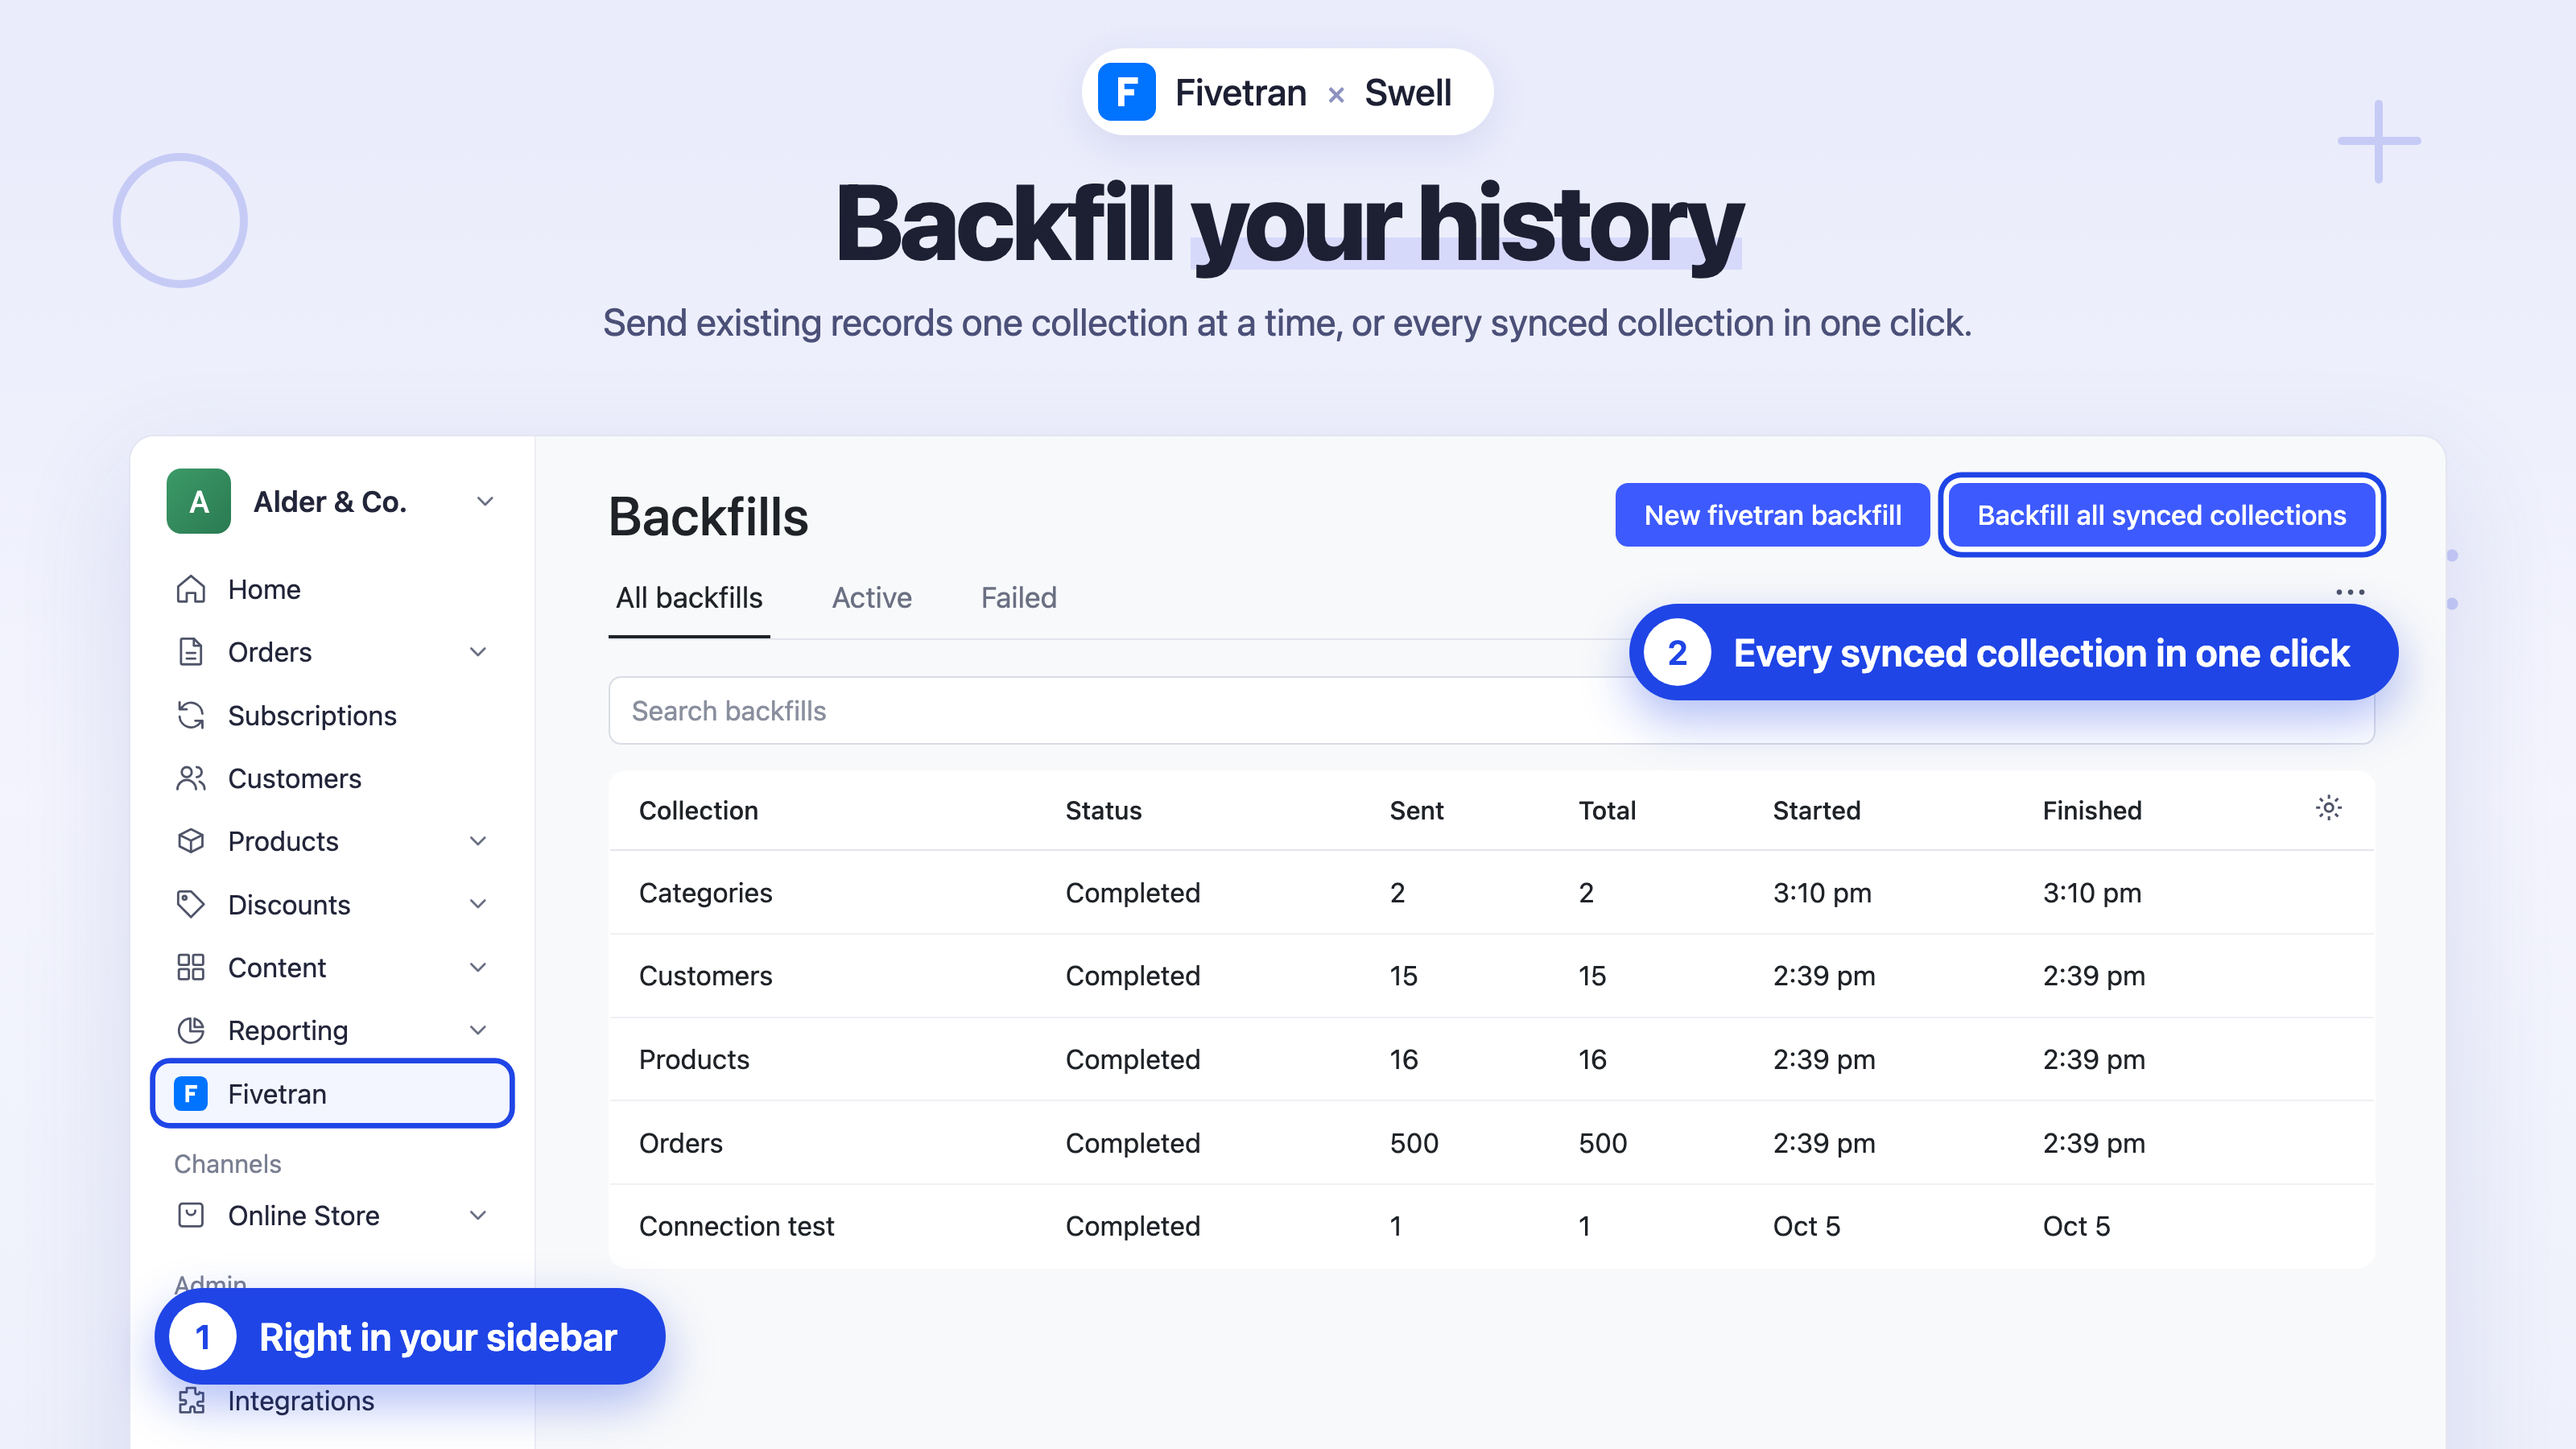
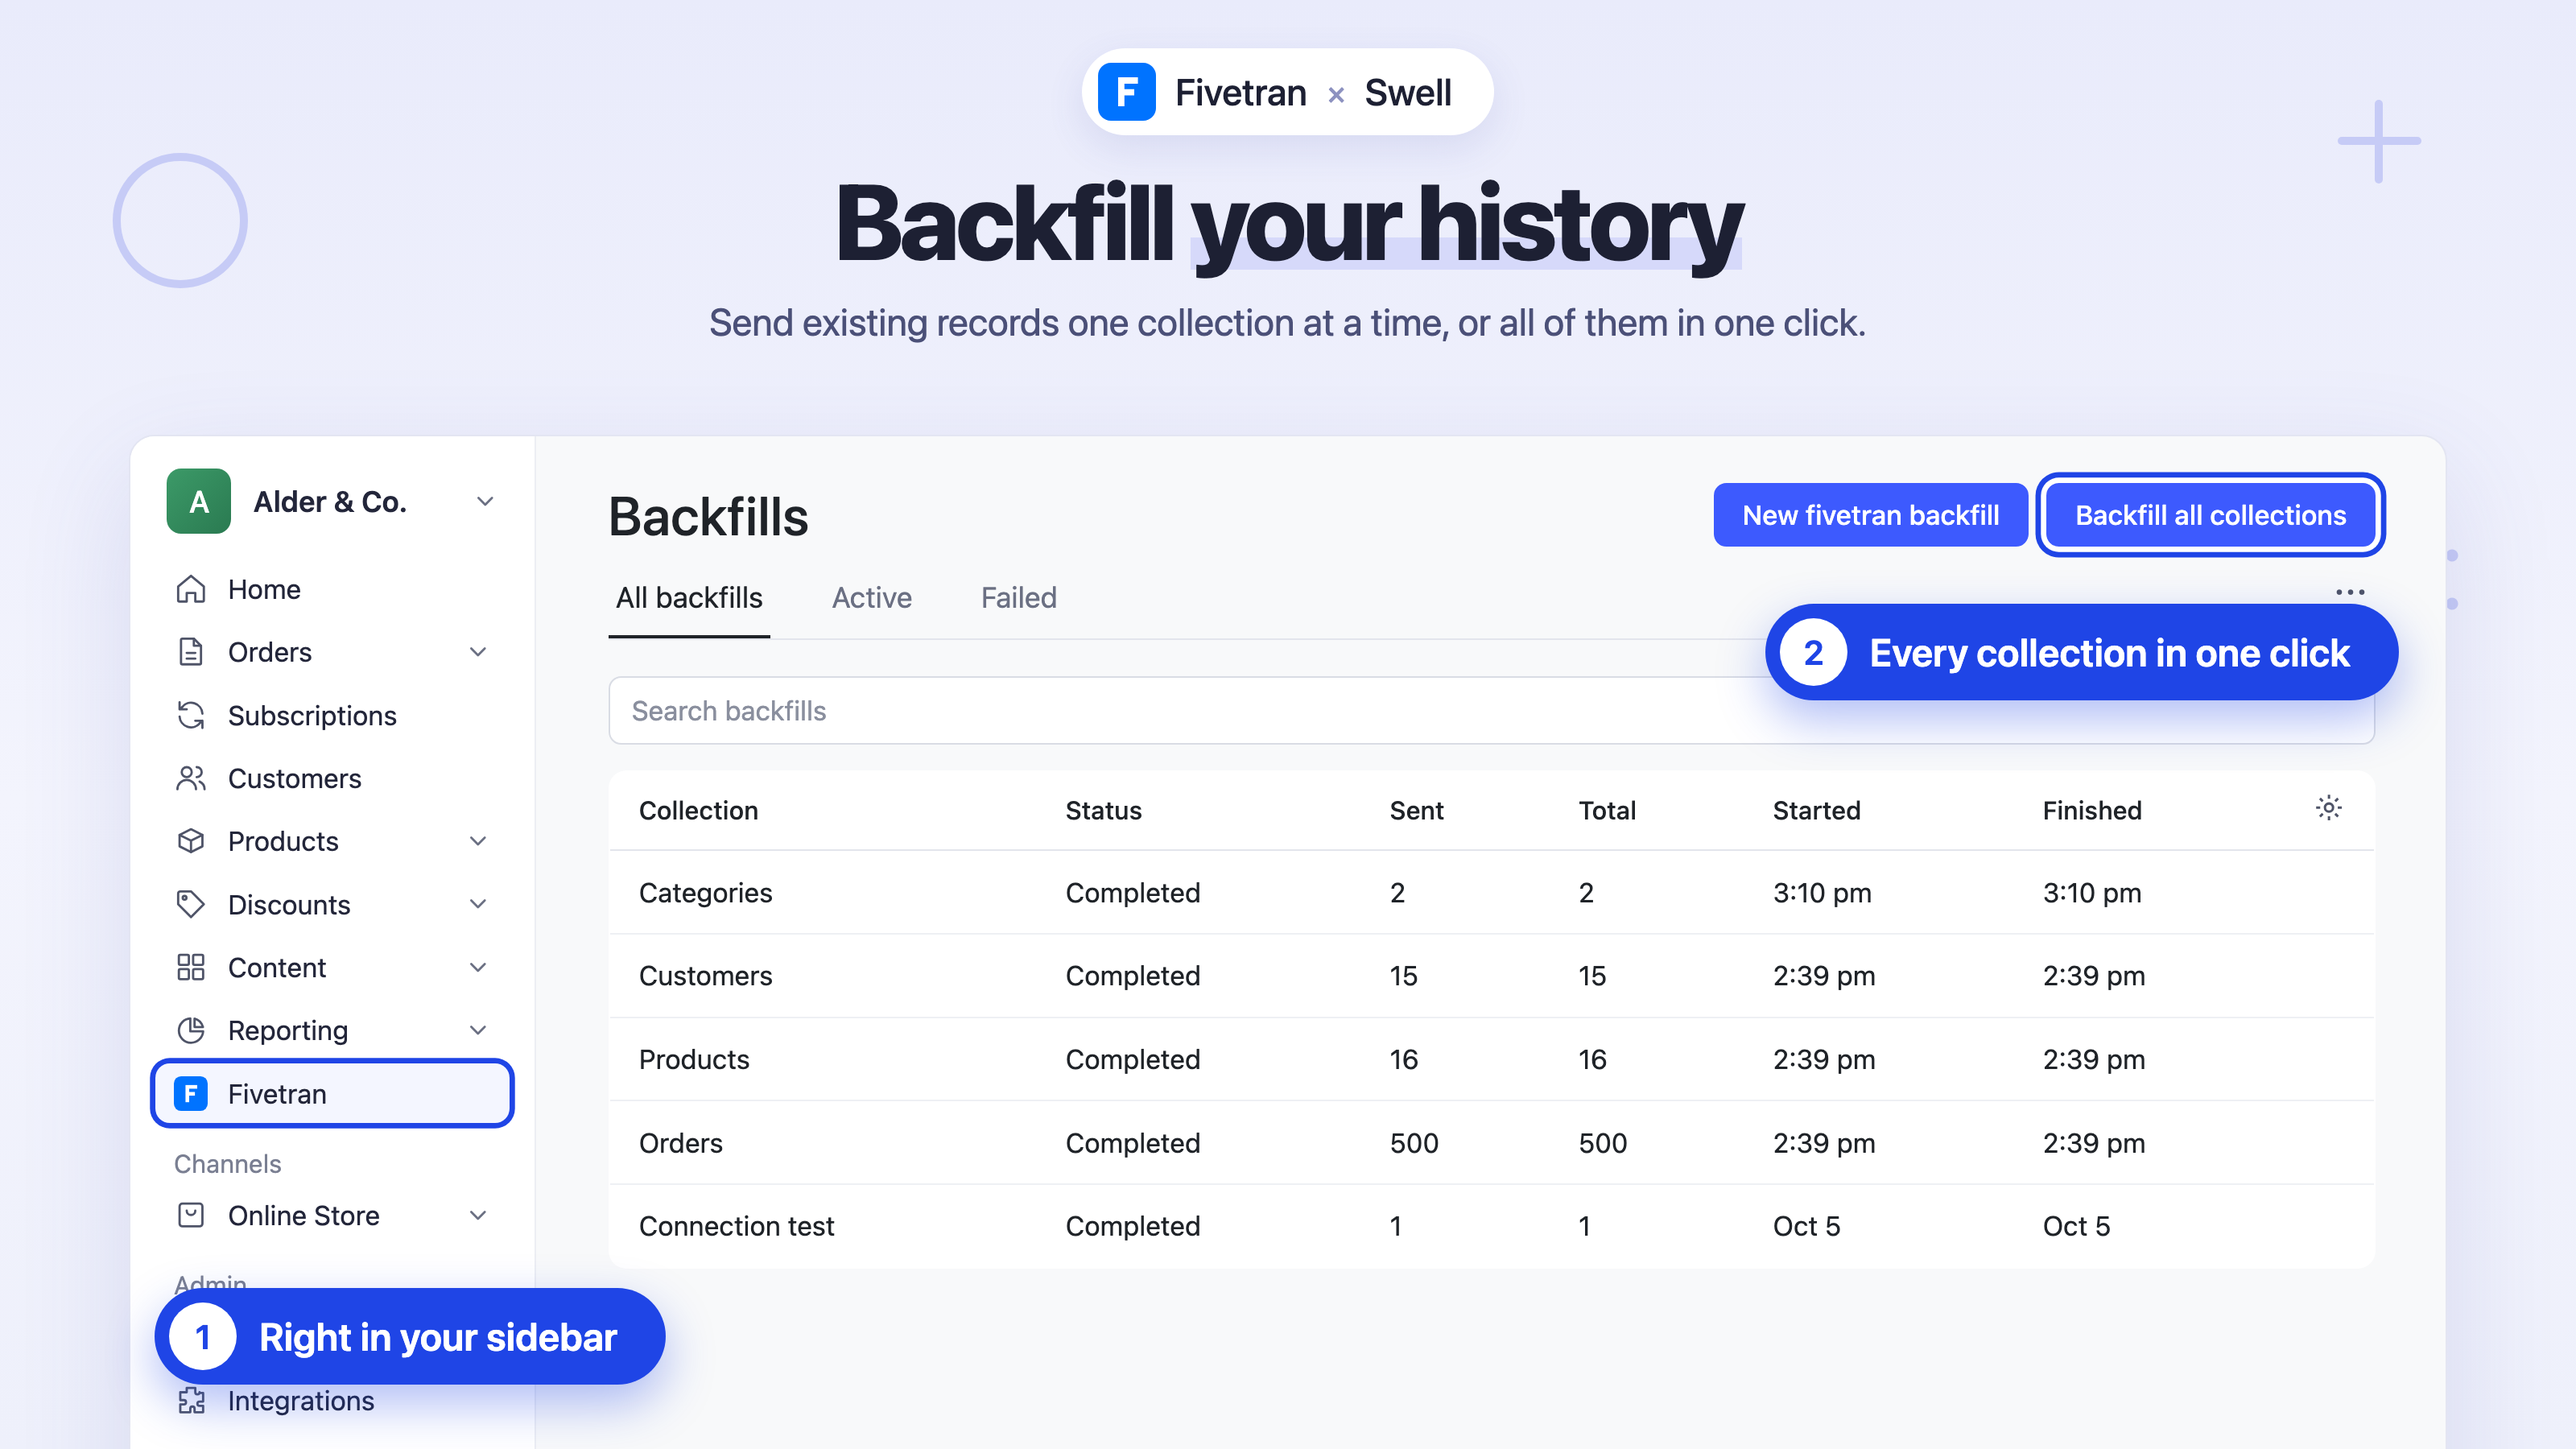
sync

Changed region(s): [[0.625, 0.3111, 0.8438, 0.5289], [0.2188, 0.2178, 0.75, 0.2489]]

diff --git a/test/unit/backfill-all.test.ts b/test/unit/backfill-all.test.ts
@@ -2,6 +2,7 @@ import { describe, it, expect, vi } from "vitest";
 import handler, { config } from "../../functions/backfill-all";
 import { createMockRequest } from "../helpers/mock-request";
 import { SETTINGS, settingsMock } from "../helpers/fixtures";
+import { COLLECTIONS } from "../../functions/lib/fivetran";
 
 function setup({
   settings = { ...SETTINGS, collections: ["orders", "accounts", "refunds"] } as Record<string, any>,
@@ -22,7 +23,7 @@ describe("backfill-all", () => {
     expect((config as any).action).toBe(true);
   });
 
-  it("starts a backfill for each synced collection", async () => {
+  it("starts a backfill for all 11 collections, not only those selected in settings", async () => {
     const { req, get, post } = setup();
     const result = await handler(req);
 
@@ -31,12 +32,19 @@ describe("backfill-all", () => {
       fields: "collection",
       limit: 100,
     });
-    expect(post.mock.calls.map((c) => c[1])).toEqual([
-      { collection: "orders", status: "pending" },
-      { collection: "accounts", status: "pending" },
-      { collection: "refunds", status: "pending" },
-    ]);
-    expect(result).toEqual({ message: "Started backfills for Orders, Customers, Refunds." });
+    expect(post.mock.calls.map((c) => c[1].collection)).toEqual(Object.keys(COLLECTIONS));
+    expect(post).toHaveBeenCalledTimes(11);
+    expect(post.mock.calls[0][1]).toEqual({ collection: "orders", status: "pending" });
+    expect(result).toEqual({
+      message:
+        "Started backfills for Orders, Customers, Products, Subscriptions, Payments, Refunds, Invoices, Carts, Coupons, Promotions, Categories.",
+    });
+  });
+
+  it("ignores an empty collection selection", async () => {
+    const { req, post } = setup({ settings: { ...SETTINGS, collections: [] } });
+    await handler(req);
+    expect(post).toHaveBeenCalledTimes(11);
   });
 
   it("passes date_from from the modal", async () => {
@@ -46,29 +54,25 @@ describe("backfill-all", () => {
   });
 
   it("skips collections with an active backfill", async () => {
-    const { req, post } = setup({ active: [{ collection: "accounts" }] });
+    const { req, post } = setup({ active: [{ collection: "accounts" }, { collection: "carts" }] });
     const result = await handler(req);
 
-    expect(post).toHaveBeenCalledTimes(2);
-    expect(result).toEqual({ message: "Started backfills for Orders, Refunds. Already running: Customers." });
+    expect(post).toHaveBeenCalledTimes(9);
+    expect(post.mock.calls.map((c) => c[1].collection)).not.toContain("accounts");
+    expect(result.message).toMatch(/ Already running: Customers, Carts\.$/);
   });
 
   it("reports when everything is already running", async () => {
-    const { req, post } = setup({
-      settings: { ...SETTINGS, collections: ["orders"] },
-      active: [{ collection: "orders" }],
+    const { req, post } = setup({ active: Object.keys(COLLECTIONS).map((collection) => ({ collection })) });
+    expect(await handler(req)).toEqual({
+      message:
+        "Already running: Orders, Customers, Products, Subscriptions, Payments, Refunds, Invoices, Carts, Coupons, Promotions, Categories.",
     });
-    expect(await handler(req)).toEqual({ message: "Already running: Orders." });
     expect(post).not.toHaveBeenCalled();
   });
 
   it("requires a webhook URL", async () => {
     const { req } = setup({ settings: { ...SETTINGS, webhook_url: "" } });
     await expect(handler(req)).rejects.toThrow("Set the Fivetran webhook URL");
-  });
-
-  it("requires at least one collection", async () => {
-    const { req } = setup({ settings: { ...SETTINGS, collections: [] } });
-    await expect(handler(req)).rejects.toThrow("No collections are selected");
   });
 });

diff --git a/functions/backfill-all.ts b/functions/backfill-all.ts
@@ -1,7 +1,7 @@
-import { ACTIVE_STATUSES, COLLECTIONS, getFivetranSettings, isConfigured, syncedCollections } from './lib/fivetran';
+import { ACTIVE_STATUSES, COLLECTIONS, getFivetranSettings, isConfigured } from './lib/fivetran';
 
 export const config: SwellConfig = {
-  description: 'Start backfills for every synced collection',
+  description: 'Start backfills for every collection',
   action: true,
 };
 
@@ -13,10 +13,8 @@ export default async function (req: SwellRequest) {
     throw new SwellError('Set the Fivetran webhook URL in the app settings first', { status: 400 });
   }
 
-  const collections = syncedCollections(settings);
-  if (!collections.length) {
-    throw new SwellError('No collections are selected in the app settings', { status: 400 });
-  }
+  // Every supported collection, regardless of which ones send live events
+  const collections = Object.keys(COLLECTIONS);
 
   const active: any = await swell.get('/backfills', {
     where: { status: { $in: ACTIVE_STATUSES } },

diff --git a/README.md b/README.md
@@ -4,9 +4,9 @@ Stream your Swell store data to your warehouse through [Fivetran](https://www.fi
 
 ## Features
 
-- **Live sync:** when a record in a synced collection is created, updated or deleted, the app sends it to Fivetran as one row. Updates send the full current record, not just the changed fields.
+- **Live sync:** when a record in a collection selected in settings is created, updated or deleted, the app sends it to Fivetran as one row. Updates send the full current record, not just the changed fields.
 - **Collections:** orders, customers (`accounts`), products, subscriptions, payments, refunds, invoices, carts, coupons, promotions and categories. Pick which ones in settings.
-- **Backfills:** a **Fivetran** page in the dashboard sidebar lists backfill jobs. Start one per collection with **New fivetran backfill** (optionally only records created after a date), or all synced collections at once with **Backfill all synced collections**. Each job shows its status, records sent, total and the last error.
+- **Backfills:** a **Fivetran** page in the dashboard sidebar lists backfill jobs. Start one per collection with **New fivetran backfill** (optionally only records created after a date), or all 11 collections at once with **Backfill all collections**. Each job shows its status, records sent, total and the last error.
 - **Cancel and resume:** an active backfill can be canceled. A failed or canceled one can be resumed. It continues after the last record sent.
 - **Request signing:** with a signing secret, every request carries an HMAC SHA-256 signature that the connector can verify.
 - **Connection test:** create a backfill with collection **Connection test** to send one test row. The job shows `completed`, or `failed` with Fivetran's error.
@@ -21,7 +21,7 @@ All credentials and options are app settings (`settings/fivetran.json`). Nothing
 | Signing secret | no | | Signs each request body with HMAC SHA-256. Use the same secret in the connector's signature validation. |
 | Signature header | no | `X-Fivetran-Signature-256` | Header the signature is sent in. Must match the header key in the connector. |
 | Signature encoding | no | Hexadecimal | `Hexadecimal` or `Base64`. Must match the connector. |
-| Collections to sync | no | Orders, Customers, Products | Collections sent live and offered by **Backfill all synced collections**. |
+| Collections to send events for | no | Orders, Customers, Products | Collections whose changes are sent live. **Backfill all collections** always covers all 11. |
 | Send deletions | no | on | Send a row with `event: "deleted"` when a record is deleted. |
 | Backfill page size | no | 100 | Records per request during a backfill (1–500). Lower it if Fivetran rejects requests as too large. |
 | Enabled | no | on | Turns off all sending without uninstalling the app. Running backfills fail with a message. |
@@ -30,9 +30,9 @@ All credentials and options are app settings (`settings/fivetran.json`). Nothing
 
 1. In Fivetran, add a connector of type **Webhooks** and choose the destination schema and table name. Copy the **webhook URL** from the setup form.
 2. Optional: in the connector's signature validation, choose algorithm **SHA-256**, encoding hex or base64, a header key (e.g. `X-Fivetran-Signature-256`) and a secret.
-3. Install the app in Swell and open its settings. Paste the **Webhook URL**. If you set up signing, enter the same secret, header and encoding. Pick the collections to sync and save.
+3. Install the app in Swell and open its settings. Paste the **Webhook URL**. If you set up signing, enter the same secret, header and encoding. Pick the collections to send events for and save.
 4. Open **Fivetran** in the dashboard sidebar, click **New fivetran backfill**, choose collection **Connection test** and save. Within a few seconds the job should show status **Completed**. If it shows **Failed**, the error explains why (wrong URL, signature mismatch, ...).
-5. Start backfills to send existing records: **Backfill all synced collections**, or **New fivetran backfill** with one collection.
+5. Start backfills to send existing records: **Backfill all collections**, or **New fivetran backfill** with one collection.
 6. After the connector's next sync, the rows are in your destination.
 
 ## Data in the warehouse
@@ -71,7 +71,7 @@ The table is an **event log**, not a mirror: every change adds a row. To get the
 |---|---|---|
 | `functions/record-events.ts` | `created`/`updated`/`deleted` events of every supported collection; `payment.succeeded`/`failed`/`voided` for payments | Checks the settings, re-reads the full record on updates and sends one row. |
 | `functions/backfill-run.ts` | `backfill.created`, `backfill.updated` (status `pending` or `running`) | For a **Connection test** job, sends one test row. Otherwise sends one page of the collection (sorted by id, after `last_id`) and saves progress. Saving the page triggers the next run, so each page gets its own 10-second function run. |
-| `functions/backfill-all.ts` | Action: **Backfill all synced collections** (backfills list) | Creates a pending backfill for each synced collection that has no active one. |
+| `functions/backfill-all.ts` | Action: **Backfill all collections** (backfills list) | Creates a pending backfill for each of the 11 collections that has no active one. |
 | `functions/backfill-control.ts` | Actions: **Cancel backfill**, **Resume backfill** (backfill page) | Sets the job to `canceled`, or back to `pending`. |
 | `functions/test-connection.ts` | Action (not shown in the dashboard yet, see Development) | Sends one `test` row and returns the result. Callable with `swell api post /functions/fivetran/test-connection`. |
 | `functions/lib/fivetran.ts` | Shared | Collection map, row builder, HMAC signing, Fivetran client, settings helpers. |

diff --git a/DESCRIPTION.md b/DESCRIPTION.md
@@ -3,7 +3,7 @@
 Send your Swell store data to your data warehouse through Fivetran.
 
 - **Live sync:** orders, customers, products, subscriptions, payments, refunds, invoices, carts, coupons, promotions and categories are sent to a Fivetran Webhooks connector as they change.
-- **Backfills:** send existing records per collection, or all synced collections in one click, with progress you can follow, cancel and resume.
+- **Backfills:** send existing records per collection, or all collections in one click, with progress you can follow, cancel and resume.
 - **Secure delivery:** optional HMAC SHA-256 request signing that Fivetran verifies.
 - **Simple setup:** paste the Webhooks connector URL, choose your collections and send a test event.
 - **Event log format:** each change is one row with the full record, so you can build history or current-state tables in your warehouse.
